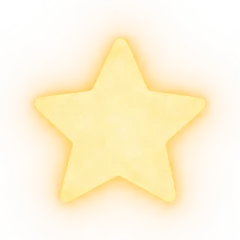
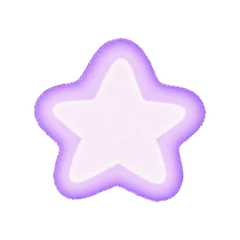
fe/feat: 트렌드 노드 읽음 상태확인

diff --git a/frontend/src/components/world/HistoryPlanet.jsx b/frontend/src/components/world/HistoryPlanet.jsx
@@ -39,29 +39,20 @@ const EVENT_SIZE_STEPS = [
 ];
 
 /**
- * 행성 위의 노드는 세 종류다 — 사건(EVENT), 인물·기관(ENTITY), 발언(STATEMENT).
+ * 행성 위의 노드는 두 종류다 — 분야(TOPIC_CLUSTER)와 사건(EVENT).
  *
- * 색은 이미 분야(topicCode)가, 크기는 읽은 기사 수가 쓰고 있다. 그래서 유형에 남은
- * 채널은 모양이다: 사건은 별, 인물·기관은 구, 발언은 팔면체. 모양은 색과 달리
- * 색맹·저채도 화면에서도 남고, 라벨 없이 멀리서도 구분된다.
+ * 인물·기관과 발언은 올리지 않는다. 한 사건에 딸린 인물이 열 개를 넘는 일이 흔해서,
+ * 구 표면이 이름표로 덮이고 정작 축이 되는 사건이 그 사이에 묻힌다. 둘은 사건을 고른 뒤
+ * 오른쪽 페이지에서 본다 — 거기서는 목록이라 수가 늘어도 읽을 수 있다.
  *
- * `sizeMultiplier` 는 기사 수로 정한 크기 위에 곱해진다. 사건이 이야기의 축이고
- * 인물과 발언은 거기에 붙는 것이므로, 같은 기사 수라도 사건이 가장 크게 선다.
+ * 그래서 행성이 답하는 질문은 "어떤 분야에서 어떤 사건을 읽었나" 하나로 좁혀진다.
+ * 색은 분야(topicCode), 크기는 읽은 기사 수가 쓴다.
+ *
+ * `sizeMultiplier` 는 기사 수로 정한 크기 위에 곱해진다.
  */
 const NODE_STYLE = {
-  TOPIC_CLUSTER: { label: '토픽', sizeMultiplier: 1 },
-  EVENT: { label: '이벤트', sizeMultiplier: 1 },
-  ENTITY: { label: '인물·기관', sizeMultiplier: 0.8 },
-  STATEMENT: { label: '발언', sizeMultiplier: 0.7 },
-};
-
-/**
- * 별 모델(glb)을 쓰지 않는 유형의 기하. 네트워크를 기다리지 않고 바로 만들어지므로,
- * glb 로드가 늦거나 실패해도 인물·발언은 항상 보인다.
- */
-const PRIMITIVE_GEOMETRY = {
-  ENTITY: (size) => new THREE.SphereGeometry(size * 0.3, 20, 14),
-  STATEMENT: (size) => new THREE.OctahedronGeometry(size * 0.34, 0),
+  TOPIC_CLUSTER: { label: '분야', sizeMultiplier: 1 },
+  EVENT: { label: '사건', sizeMultiplier: 1 },
 };
 
 const RELATION_LABEL = {
@@ -89,7 +80,11 @@ function fallbackTopicPoint(index, count) {
 }
 
 function buildLayout(graph) {
-  const nodes = graph.nodes ?? [];
+  // 분야와 사건만 행성에 세운다(위 NODE_STYLE 주석 참조). 인물·발언은 통과시키지 않으므로
+  // 그들에게 걸린 Edge 도 함께 떨군다 — 남겨 두면 없는 노드로 향하는 선이 생긴다.
+  const nodes = (graph.nodes ?? []).filter(
+    (node) => node.kind === 'TOPIC_CLUSTER' || node.nodeType === 'EVENT',
+  );
   const topics = nodes.filter((node) => node.kind === 'TOPIC_CLUSTER');
   const topicAnchors = new Map();
 
@@ -122,7 +117,10 @@ function buildLayout(graph) {
     return { ...node, position: surfacePoint.multiplyScalar(PLANET_RADIUS + elevation) };
   });
 
-  const edges = graph.edges ?? [];
+  const kept = new Set(layoutNodes.map((node) => node.id));
+  const edges = (graph.edges ?? []).filter(
+    (edge) => kept.has(edge.sourceId) && kept.has(edge.targetId),
+  );
   const adjacency = new Map(layoutNodes.map((node) => [node.id, new Set()]));
   edges.forEach((edge) => {
     if (!adjacency.has(edge.sourceId) || !adjacency.has(edge.targetId)) return;
@@ -312,7 +310,6 @@ export default function HistoryPlanet({
       const style = NODE_STYLE[kind] ?? NODE_STYLE.EVENT;
       const sizeStep = eventSizeForArticleCount(node.sourceArticleCount);
       const modelSize = (isTopic ? 0.94 : sizeStep.size * 0.76) * style.sizeMultiplier;
-      const color = colorForNode(node);
       const holder = new THREE.Group();
       holder.position.copy(node.position);
       holder.userData.nodeId = node.id;
@@ -334,23 +331,9 @@ export default function HistoryPlanet({
 
       globe.add(holder);
 
-      // 인물·발언은 별 모델을 쓰지 않으므로 여기서 끝난다. glb 로더는 model 이 이미
-      // 채워진 항목을 건너뛴다.
-      const primitive = PRIMITIVE_GEOMETRY[kind];
+      // 분야와 사건 둘 다 별 모델(glb)을 쓴다 — 아래 GLTFLoader 가 채운다.
       let model = null;
       let modelMaterial = null;
-      if (primitive) {
-        modelMaterial = new THREE.MeshStandardMaterial({
-          color,
-          emissive: color,
-          emissiveIntensity: kind === 'STATEMENT' ? 0.34 : 0.28,
-          roughness: 0.38,
-          metalness: 0.12,
-          transparent: true,
-        });
-        model = new THREE.Mesh(primitive(modelSize), modelMaterial);
-        modelHolder.add(model);
-      }
 
       nodeEntries.set(node.id, {
         node,
@@ -901,7 +884,7 @@ export default function HistoryPlanet({
                 onClick={() => onSelectNode(node)}
               >
                 <strong>{node.title}</strong>
-                {/* 기사 수는 토픽과 사건에만 있다. 인물·발언은 대신 자기 유형을 밝힌다. */}
+                {/* 기사 수가 없으면(분야 칸 등) 대신 자기 유형을 밝힌다. */}
                 <small>
                   {node.sourceArticleCount == null
                     ? (NODE_STYLE[nodeKind(node)] ?? NODE_STYLE.EVENT).label

diff --git a/frontend/src/components/trend/TrendConstellation.jsx b/frontend/src/components/trend/TrendConstellation.jsx
@@ -6,6 +6,7 @@ import {
   constellationStart,
   panelCopy,
   stars,
+  visitedStar,
   trendFigmaAssets,
 } from '../../data/trend'
 import { fetchNodeArticles } from '../../api/trend'
@@ -35,6 +36,7 @@ const NODE_STAR = {
   ENTITY: stars.entity,
   STATEMENT: stars.statement,
 }
+
 
 const PREVIEW_STAR = {
   EVENT: trendFigmaAssets.relatedLeftSticker,
@@ -181,10 +183,13 @@ function scrollTrailHorizontally(event) {
   list.scrollLeft += rawDelta * unit
 }
 
-function StarArt({ role, nodeType }) {
+/** `visited` 면 색 계열이 다른 같은 모양을 쓴다 — 자리와 크기는 그대로다. */
+function StarArt({ role, nodeType, visited = false }) {
+  const src = visited ? visitedStar : (NODE_STAR[nodeType] ?? ROLE_STAR[role])
+
   return (
     <span className={`${styles.art} ${styles.portableArt}`} aria-hidden>
-      <img className={styles.mobileStar} src={NODE_STAR[nodeType] ?? ROLE_STAR[role]} alt="" />
+      <img className={styles.mobileStar} src={src} alt="" />
     </span>
   )
 }
@@ -231,6 +236,8 @@ export function TrendConstellation({
   const centre = nodes[0]
   const centreType = graph ? graph.centerNode.nodeType : 'EVENT'
   const visibleNodeKeys = new Set(nodes.map((node) => node.id))
+  // trail 의 마지막은 지금 중심이다. 그 앞의 것들이 이미 지나온 별이다.
+  const visitedKeys = new Set((trail ?? []).slice(0, -1).map((item) => item.nodeKey))
   const at = (node) => (narrow ? node.slot.atNarrow : node.slot.at)
 
   /** 현재 Event의 다음 기사 페이지를 기존 카드에 이어 붙인다. */
@@ -442,7 +449,13 @@ export function TrendConstellation({
         {nodes.map((node, index) => {
           const { role, visual } = node.slot
           const isCentre = role === 'centre'
-          const art = <StarArt role={role} nodeType={isCentre ? centreType : node.nodeType} />
+          const art = (
+            <StarArt
+              role={role}
+              nodeType={isCentre ? centreType : node.nodeType}
+              visited={!isCentre && visitedKeys.has(node.id)}
+            />
+          )
           const previewNodes =
             role === 'related' ? previewNodesFor(previewGraphs?.[node.id], visibleNodeKeys) : []
           const previewText = previewSummary(previewNodes)

diff --git a/frontend/src/data/trend.js b/frontend/src/data/trend.js
@@ -232,10 +232,28 @@ export const ambientStars = [
  * 1/1.8 of the image, which is what the sizes in TrendConstellation.module.css assume.
  */
 export const stars = {
-  event: '/assets/trend/star-event.png',
+  event: '/assets/trend/star-event.webp',
   statement: '/assets/trend/star-statement.webp',
   entity: '/assets/trend/star-entity.webp',
 }
+
+/**
+ * 이미 지나온 별. 종류를 가리지 않고 한 장을 쓴다.
+ *
+ * A → B → C 로 걸어 들어가면 B 는 C 의 주변에도 다시 나타난다. 그때 처음 보는 별과 같은
+ * 그림이면 "여기 왔었다"는 사실이 화면에서 사라진다 — 탐색 경로는 상단 빵가루에만 남고,
+ * 별자리 자체는 아무것도 기억하지 못하는 것처럼 보인다.
+ *
+ * 사건·인물·발언을 따로 그리지 않는 이유는, 이 별이 답하는 질문이 "무엇인가"가 아니라
+ * "가봤는가"이기 때문이다. 종류는 평소 별 세 장이 이미 말하고 있고, 지나왔다는 사실에는
+ * 종류가 없다.
+ *
+ * 규격은 `stars` 와 같아야 한다 — 240px 프레임, 몸통이 프레임의 0.72.
+ * 어긋나면 같은 자리에서 별 크기가 달라 보인다(scripts/crop-stars.py).
+ *
+ * 지금 중심인 별은 제외한다. 중심은 "지나온 곳"이 아니라 "지금 보는 곳"이다.
+ */
+export const visitedStar = '/assets/trend/star-visited.webp'
 
 /**
  * 주요 트렌드's constellation: one event at a time, taken apart into what it is made of,
